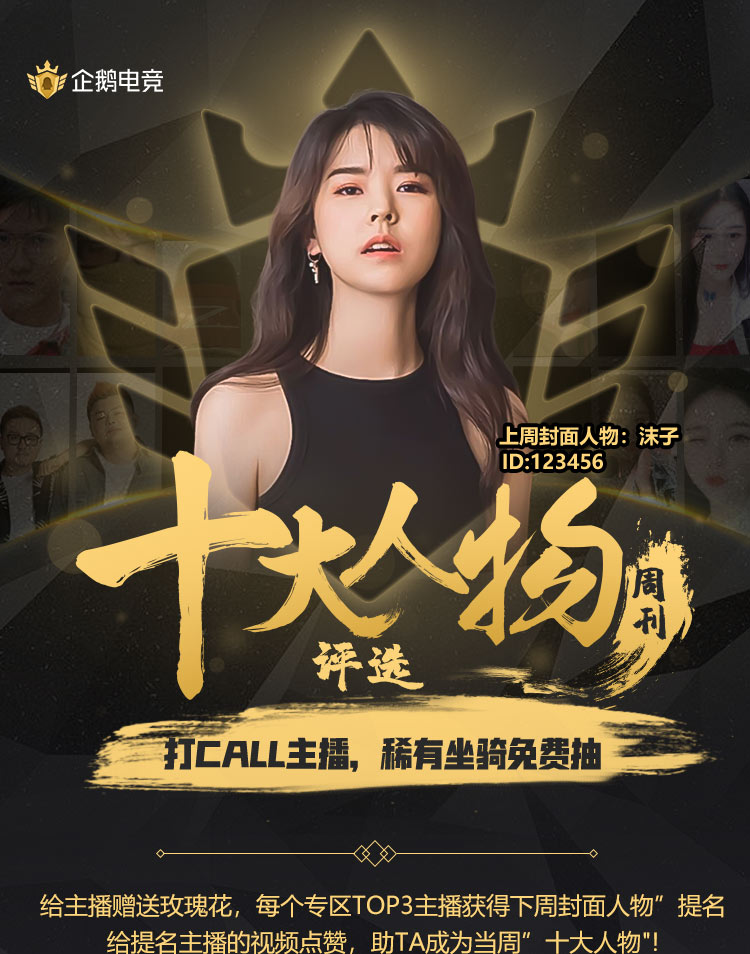
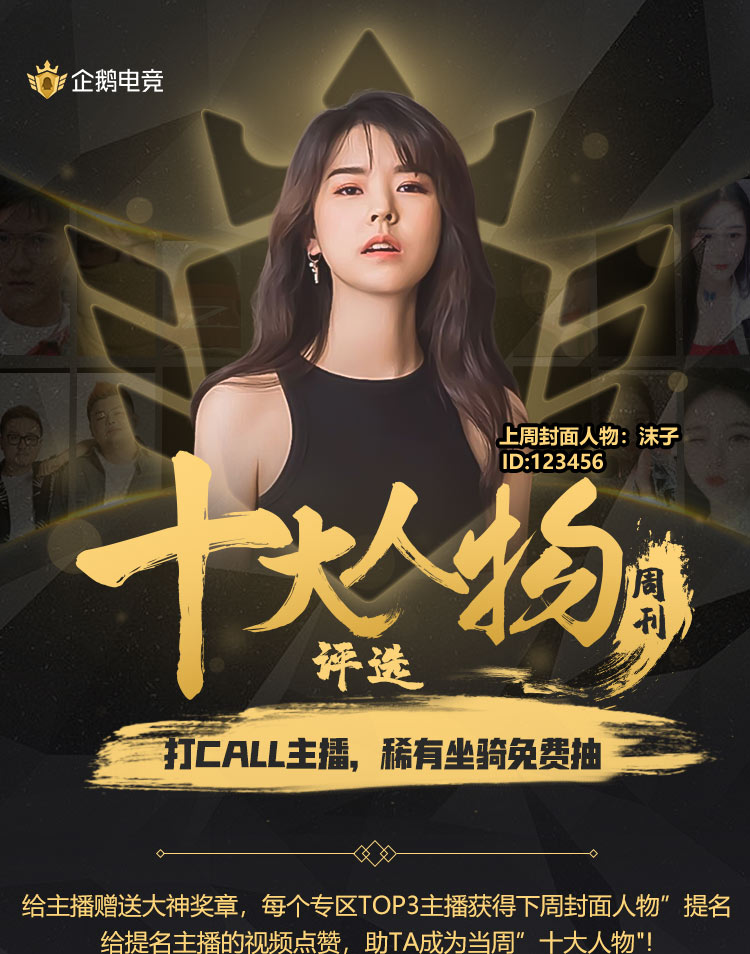
rose change medal

Changed region(s): [[0.0307, 0.9119, 0.9813, 1.0]]

diff --git a/src/views/Rule.vue b/src/views/Rule.vue
@@ -7,7 +7,7 @@
           <li>1.活动时间为: 6月10日-6月18日</li>
           <li>2.主播战区划分:根据主播近30天开播最多品类自动分战区，战区不可调整。</li>
           <li>3.主播分级:根据5月流水排名, 1-15名为传说成员、16- 30名为超凡成员，31-50名为高手成员，其余主播为勇者成员。</li>
-          <li>4.主播活动期间所有收到的钻石礼物按照价们自动换算成票数,其中普通礼物1钻石=1票，“狗东”礼物1个=50票，“大神奖章"1个-2票。BUFF礼物获取方法:直接购买+金卡传说专区兑换。</li>
+          <li>4.主播活动期间所有收到的钻石礼物按照价们自动换算成票数,其中普通礼物1钻石=1票，“狗东”礼物1个=50票，“大神奖章"1个=2票。BUFF礼物获取方法:直接购买+金卡传说专区兑换。</li>
           <li>5.主播奖励:人奖励:以活动期间主播日均人气值为计算基准，保底1w加成，最高加成不超过30w,其他牌面奖励将于活动结束后的7个工作日内人工联系发放。</li>
           <li>6.用户奖励:获得"618快递宝箱”中实物奖励的用户需在页面及时填写有效的联系方式，否则视为放弃奖励;获得最强粉丝奖励的用户，奖励将于7个工作日内发放至背包。</li>
           <li>7.腾讯公司保留法律范围内对活动规则进行解释的权利。</li>

diff --git a/src/views/act-main.vue b/src/views/act-main.vue
@@ -4,7 +4,7 @@
       <div class="anchors__head">
         <div class="anchors__head__text">
           1x&nbsp;
-          <img class="anchors__head__rose" src="../img/rose.png" />
+          <img class="anchors__head__rose" src="../img/medal.png" />
           =1积分
         </div>
         <img @click="toTask" src="../img/get_count.png"/>
@@ -84,7 +84,7 @@
           <img src="../img/task-btn1.png">
         </div>
         <div class="anchors__task__rule">
-          注:好友登录奖励需要好友是未登录过企鹅电竞的新用户或超过2周没有登陆的老用户，通过您的分享登陆企鹅电竞,您将额外获得3000个玫瑰花。
+          注:好友登录奖励需要好友是未登录过企鹅电竞的新用户或超过2周没有登陆的老用户，通过您的分享登陆企鹅电竞,您将额外获得3000个大神奖章。
         </div>
       </div>
     </div>

diff --git a/src/assets/less/common.less b/src/assets/less/common.less
@@ -29,6 +29,7 @@ body {
     }
     &__rose {
       height: 1.6rem;
+      vertical-align: top;
       transform:translateY(.25rem);
     }
     >img {
